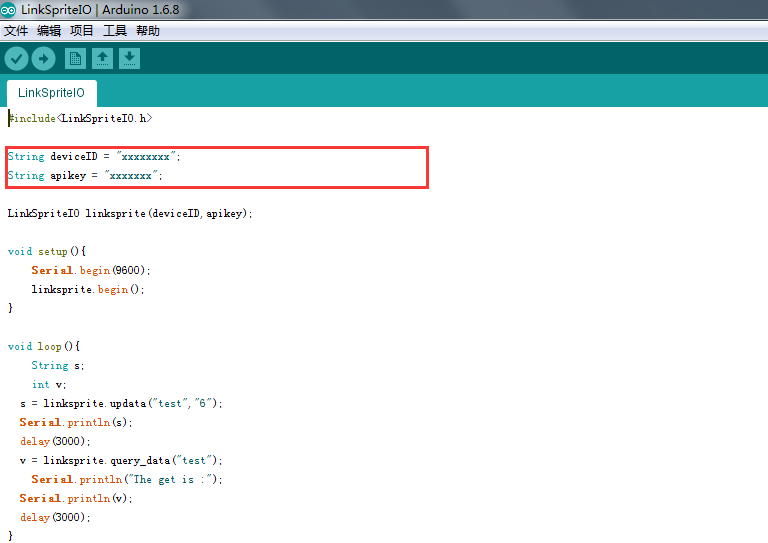
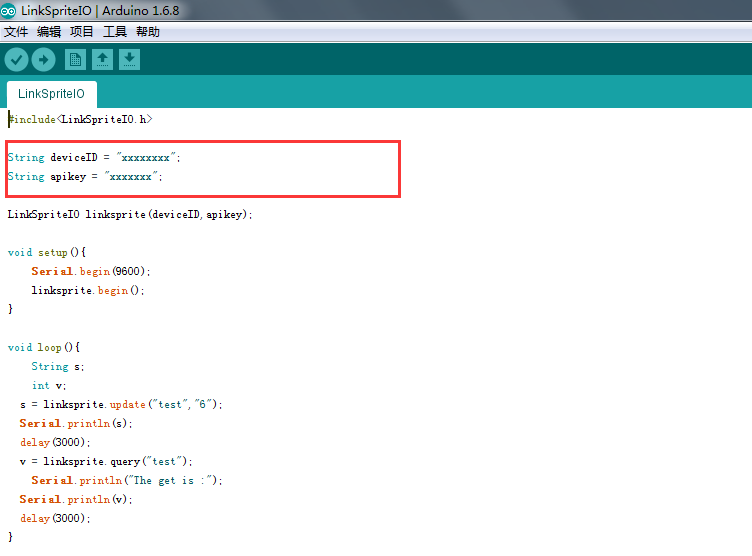
strand

Changed region(s): [[0.0, 0.0, 1.0, 0.4125], [0.0, 0.6188, 0.3059, 1.0], [0.0, 0.442, 0.2141, 0.5599]]

diff --git a/LinkSpriteIO/LinkSpriteIO.cpp b/LinkSpriteIO/LinkSpriteIO.cpp
@@ -37,7 +37,7 @@ int LinkSpriteIO::StrtoDec(String a)
        return 9;  
 }
 
-int LinkSpriteIO::query_data(String serach)
+int LinkSpriteIO::query(String serach)
 {
    int dat = 0;
    String s1;
@@ -90,7 +90,7 @@ int LinkSpriteIO::query_data(String serach)
  }
 }
 
-String LinkSpriteIO::updata(String type,String val)
+String LinkSpriteIO::update(String type,String val)
 {
    String param;
    String s = "\"";
